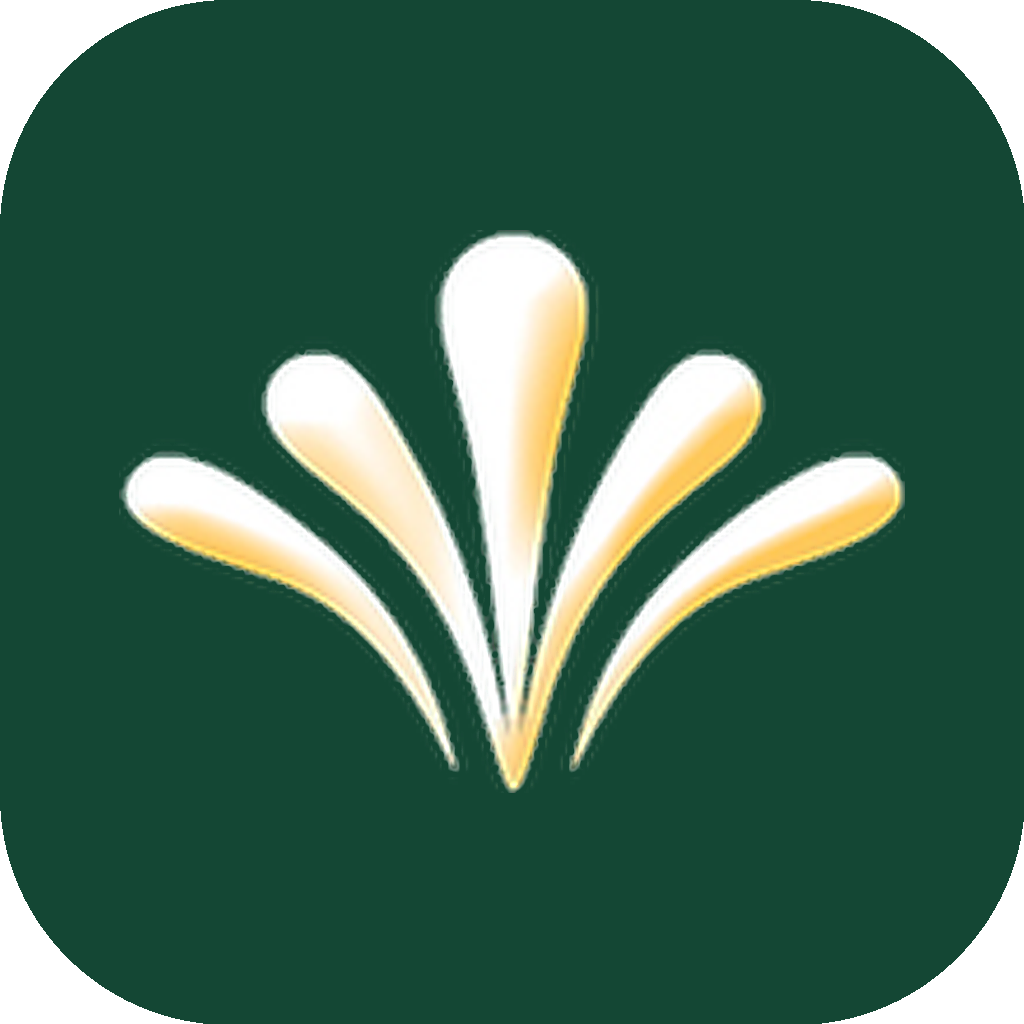
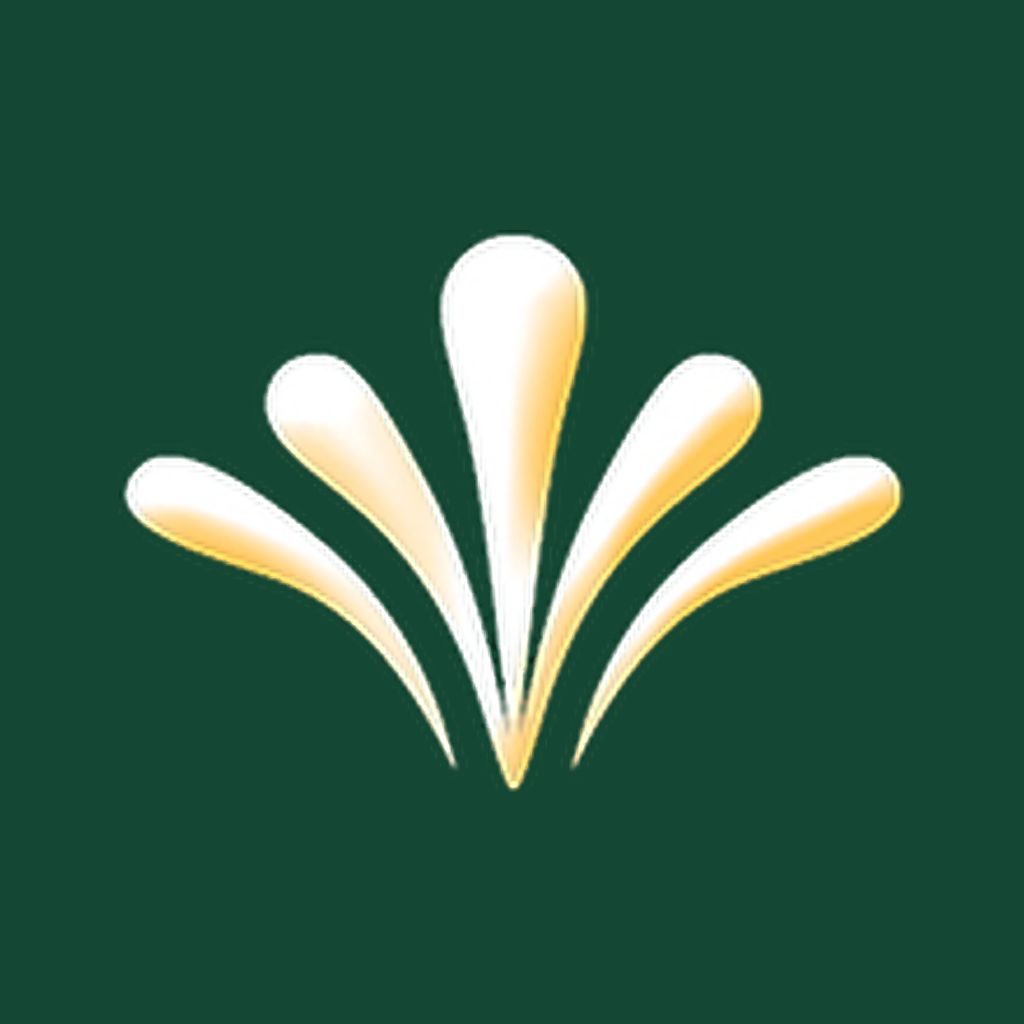
Tegels op de telefoon gooiden je sessie weg, en het icoon had zwarte hoeken
Drie dingen.

Een tegel openen leidde tot een lus: hij vroeg /api/me aan het hulpprogramma
dat alleen op de pc draait, kreeg niets, concludeerde dat je was uitgelogd en
wiste je sessie. Terug op het hoofdmenu stond je dus weer op het inlogscherm,
en na inloggen begon het opnieuw. mobiel-brug.js vangt die aanroepen nu op:
/api/me wordt beantwoord uit wat er bij het inloggen al is bewaard, en al het
andere krijgt een 503 met uitleg. Bewust geen 401 - daarop besluit een tegel
opnieuw dat je uitgelogd bent en is de lus terug.

Het app-icoon had doorzichtige hoeken. iOS zet daar zwart achter en rondt het
icoon daarna zelf nog eens af, dus stond er een lelijk vierkantje op het
beginscherm. Nu is de groene kleur doorgetrokken tot in de hoeken, en er is
een aparte 180 bij 180 voor iOS.

En alles wat verklapt dat het dashboard ook op een telefoon draait is eruit:
de handleiding om het op je beginscherm te zetten, de zin bij de mailtegel op
het pc-dashboard, en de koppen die het woord telefoon noemden.

diff --git a/mobiel-brug.js b/mobiel-brug.js
@@ -1,0 +1,82 @@
+/* ═══════════════════════════════════════════════════════════════════════════
+   BRUG — de tegels laten werken zonder het hulpprogramma van de pc
+   ═══════════════════════════════════════════════════════════════════════════
+
+   Op een pc draait naast het dashboard een klein hulpprogramma op poort 3737.
+   De tegels vragen dat om de sessie, om artikelgegevens en om alles wat via
+   Logic4 loopt. Buiten die pc bestaat het niet.
+
+   Wat er dan gebeurde: een tegel vroeg /api/me, kreeg geen antwoord, en
+   concludeerde dat de gebruiker niet meer ingelogd was. Vervolgens wíste hij
+   de sessie en stuurde terug naar het dashboard. Daar was je nog wel ingelogd
+   geweest, maar dat was net gewist - dus stond je weer op het inlogscherm.
+   Opnieuw inloggen, tegel openen, en het begon van voren af aan.
+
+   Deze brug vangt die aanroepen op voordat ze de deur uit gaan:
+
+     /api/me      wordt beantwoord uit wat er bij het inloggen is bewaard.
+                  Dat is precies wat de tegel wil weten en het staat er al.
+     /api/health  zegt dat alles goed is; tegels gebruiken dit om te kijken
+                  of het hulpprogramma leeft.
+     /api/logout  laat de tegel gewoon uitloggen, dat is een lokale handeling.
+
+   Al het andere achter /api/ krijgt netjes een 503 met uitleg. Dat is eerlijk:
+   die gegevens zijn er op een telefoon niet. Maar het is géén 401, want dan
+   zou een tegel opnieuw kunnen besluiten dat je uitgelogd bent, en dat is
+   precies de lus die we hier weghalen.
+
+   Wordt alleen ingeladen door de worker bij pagina's onder /m/. Op de pc komt
+   dit bestand niet langs en verandert er niets.
+   ═══════════════════════════════════════════════════════════════════════════ */
+
+(function () {
+  "use strict";
+  if (window.fpBrug) return;
+  window.fpBrug = true;
+
+  var echt = window.fetch.bind(window);
+
+  function antwoord(data, status) {
+    return new Response(JSON.stringify(data), {
+      status: status || 200,
+      headers: { "Content-Type": "application/json" },
+    });
+  }
+
+  function pad(invoer) {
+    try {
+      var u = new URL(typeof invoer === "string" ? invoer : invoer.url, location.href);
+      if (u.origin !== location.origin) return null;      // niet van ons, niet aankomen
+      return u.pathname;
+    } catch (e) { return null; }
+  }
+
+  window.fetch = function (invoer, opties) {
+    var p = pad(invoer);
+    if (!p || p.indexOf("/api/") !== 0) return echt(invoer, opties);
+
+    if (p === "/api/me") {
+      var email = "";
+      try { email = localStorage.getItem("fp.email") || ""; } catch (e) {}
+      if (!email) return antwoord({ ok: false, error: "niet-ingelogd" }, 401);
+      return Promise.resolve(antwoord({ ok: true, user: { email: email } }));
+    }
+
+    if (p === "/api/health") {
+      return Promise.resolve(antwoord({ ok: true, server: "mobiel-brug", version: "1" }));
+    }
+
+    if (p === "/api/logout") {
+      return Promise.resolve(antwoord({ ok: true }));
+    }
+
+    /* De rest bestaat hier echt niet. 503 en geen 401: bij een 401 besluit een
+       tegel dat je bent uitgelogd en gooit hij je sessie weg. */
+    return Promise.resolve(antwoord({
+      ok: false,
+      error: "niet-op-telefoon",
+      message: "Dit onderdeel haalt zijn gegevens op bij het programma dat op de pc draait. " +
+               "Op de telefoon is dat er niet.",
+    }, 503));
+  };
+})();

diff --git a/mobiel.html b/mobiel.html
@@ -12,8 +12,8 @@
 <!-- Hetzelfde icoon als de app op de pc: build/icon.png, hier als app-icoon.png
      naast de andere bestanden zodat de worker hem kan meesturen. iOS pakt de
      apple-touch-icon, Android het manifest. -->
-<link rel="apple-touch-icon" href="app-icoon.png">
-<link rel="icon" type="image/png" href="app-icoon.png">
+<link rel="apple-touch-icon" sizes="180x180" href="app-icoon-180.png">
+<link rel="icon" type="image/png" sizes="180x180" href="app-icoon-180.png">
 <link rel="manifest" href="mobiel.webmanifest">
 <!-- Dezelfde twee lijsten als de pc: wie in welke groep zit, en welke tegel bij
      welke groep hoort. tools/tegels-gelijk.mjs bewaakt dat ze niet uit elkaar
@@ -145,7 +145,7 @@ main{flex:1;padding:16px;padding-bottom:calc(30px + env(safe-area-inset-bottom))
         </label>
         <label class="blijf">
           <input type="checkbox" id="vBlijf" checked>
-          Ingelogd blijven op dit toestel
+          Ingelogd blijven
         </label>
         <button type="submit" id="knopInlog">Inloggen</button>
       </form>
@@ -160,17 +160,12 @@ main{flex:1;padding:16px;padding-bottom:calc(30px + env(safe-area-inset-bottom))
   </header>
   <main>
     <div id="tegelblok"></div>
-    <div class="uitleg">
-      <b>Op je beginscherm zetten.</b> Op de iPhone: het deelknopje onderin Safari, dan
-      "Zet op beginscherm". Op Android: de drie puntjes rechtsboven in Chrome, dan
-      "Toevoegen aan startscherm". Daarna opent het als een app, zonder adresbalk.
-    </div>
   </main>
 </div>
 
 <div id="waarschuwing">
   <div class="kaart">
-    <h3 id="wsTitel">Deze tegel is gemaakt voor een pc</h3>
+    <h3 id="wsTitel">Deze tegel wil een groot scherm</h3>
     <p id="wsTekst"></p>
     <div class="knoppen">
       <button id="wsTerug">Laat maar</button>
@@ -244,9 +239,9 @@ function voornaam(wie){
 }
 
 var KOPPEN = {
-  goed: "Werkt op je telefoon",
+  goed: "Direct bruikbaar",
   krap: "Werkt, maar is aan de brede kant",
-  pc:   "Gemaakt voor een pc",
+  pc:   "Beter op een groot scherm",
 };
 
 function toonDash(){
@@ -287,8 +282,8 @@ function toonDash(){
     a.onclick = function(e){
       e.preventDefault();
       el("wsTekst").textContent = a.dataset.naam + " is gebouwd voor een breed scherm, en een deel " +
-        "ervan werkt alleen met het hulpprogramma dat op de pc draait. Openen kan, maar reken erop " +
-        "dat je moet schuiven en dat niet alles werkt.";
+        "ervan haalt zijn gegevens op bij het programma dat op de werkplek draait. Openen kan, " +
+        "maar reken erop dat je moet schuiven en dat niet alles werkt.";
       el("wsDoor").onclick = function(){ location.href = a.getAttribute("href"); };
       el("waarschuwing").classList.add("aan");
     };

diff --git a/data-worker/src/worker.js b/data-worker/src/worker.js
@@ -4874,7 +4874,14 @@ export default {
       if (bestand.endsWith(".png") || bestand.endsWith(".jpg") || bestand.endsWith(".ico"))
         return new Response(await r.arrayBuffer(), { status: 200, headers: kop });
       let t = await r.text();
-      if (bestand.endsWith(".html")) t = t.replace(/"dashboard\.html"/g, '"./"');
+      if (bestand.endsWith(".html")) {
+        t = t.replace(/"dashboard\.html"/g, '"./"');
+        /* De brug moet vóór al het andere draaien: hij vangt de aanroepen op
+           naar het hulpprogramma dat hier niet bestaat. Deed hij dat niet, dan
+           wist een tegel de sessie zodra die aanroep mislukte en stond je weer
+           op het inlogscherm - en na opnieuw inloggen meteen weer. */
+        t = t.replace(/<head([^>]*)>/i, '<head$1><script src="mobiel-brug.js"></script>');
+      }
       return new Response(t, { status: 200, headers: kop });
     }
 

diff --git a/dashboard.html b/dashboard.html
@@ -407,7 +407,7 @@ button:disabled{transform:none!important;box-shadow:none!important;filter:none!i
       <a href="mail.html" class="tile hidden" id="tileMail">
         <div class="icon">✉</div>
         <h3>Mijn mail</h3>
-        <p>Je @fonteyn.nl-postvak lezen, concepten die het dashboard voor je klaarzet nalezen, aanpassen en verzenden. Werkt op de pc en op de telefoon.</p>
+        <p>Je @fonteyn.nl-postvak lezen, concepten die het dashboard voor je klaarzet nalezen, aanpassen en verzenden.</p>
       </a>
 
       <!-- Retouren — Don/Arno/Dolf/Manon + admins. -->
